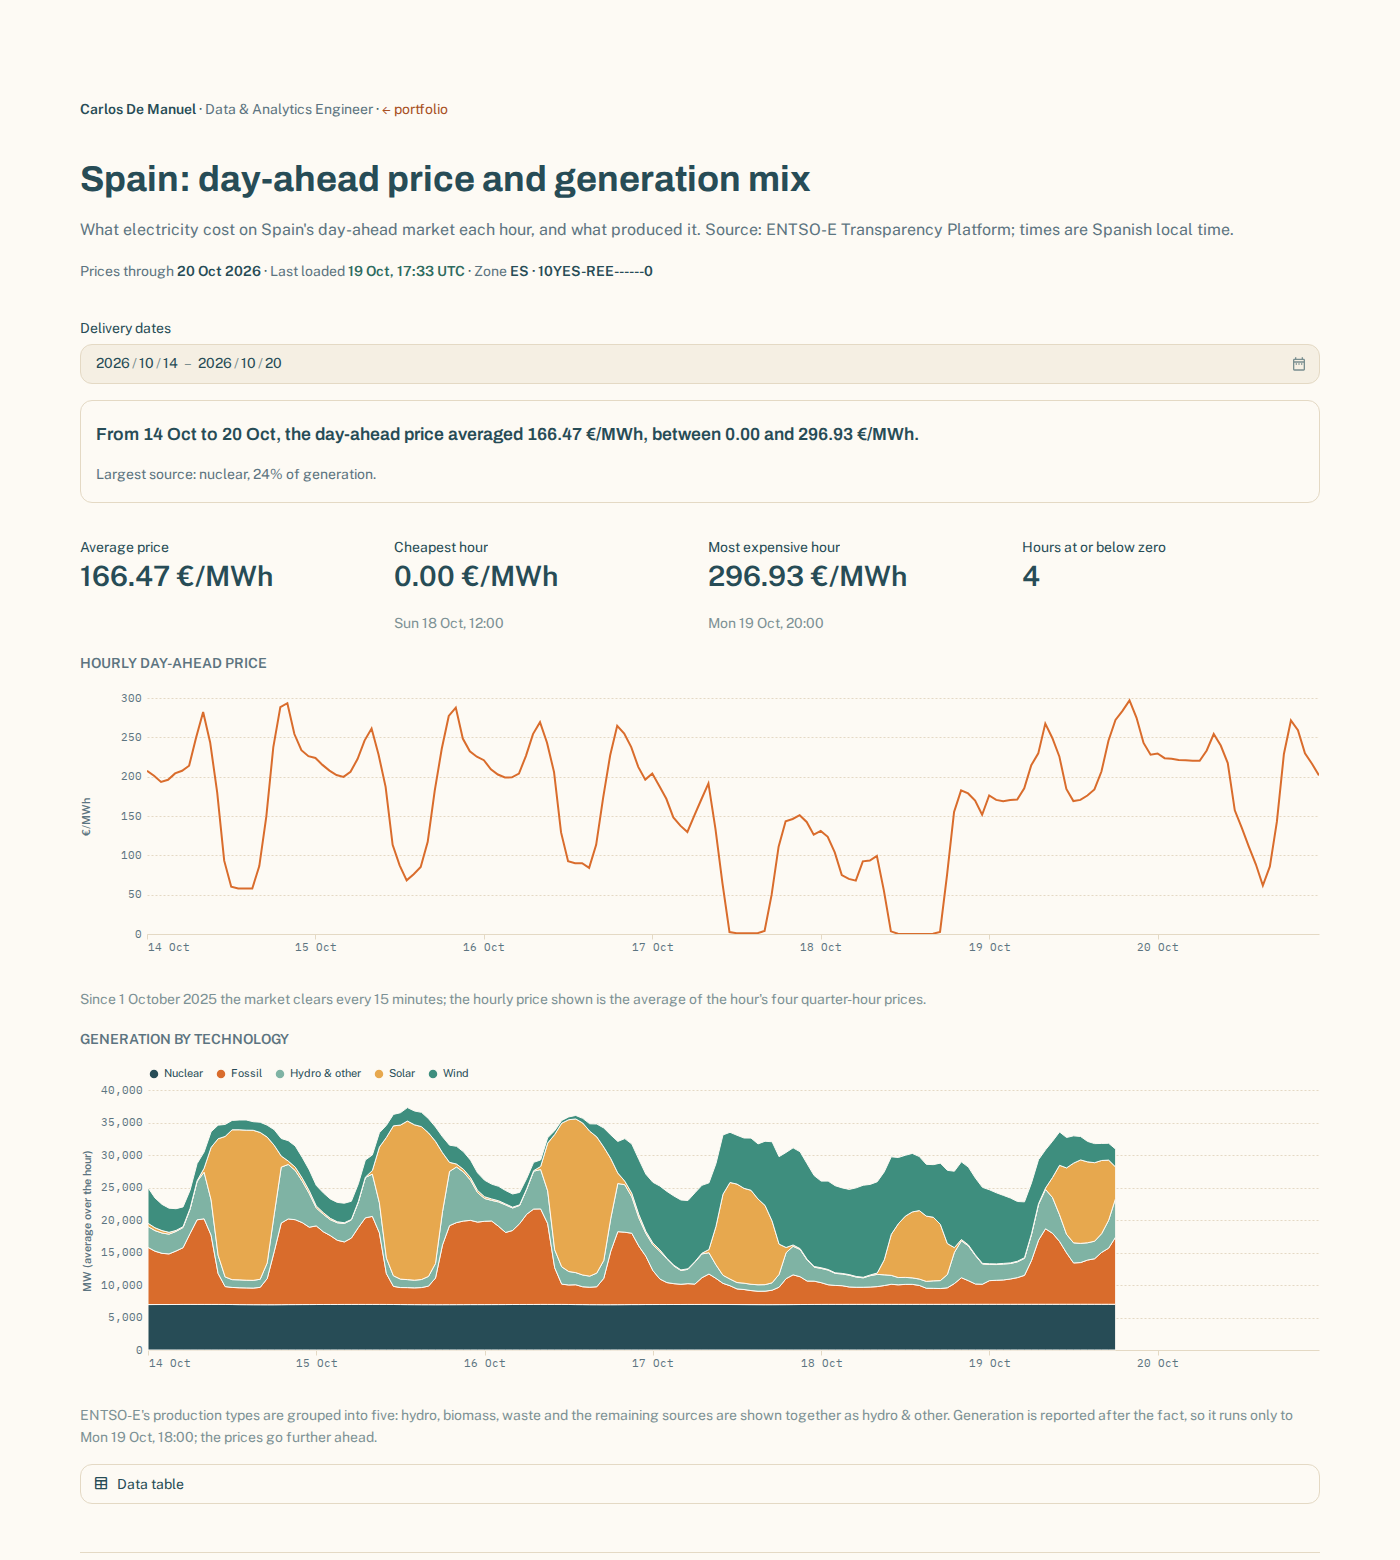
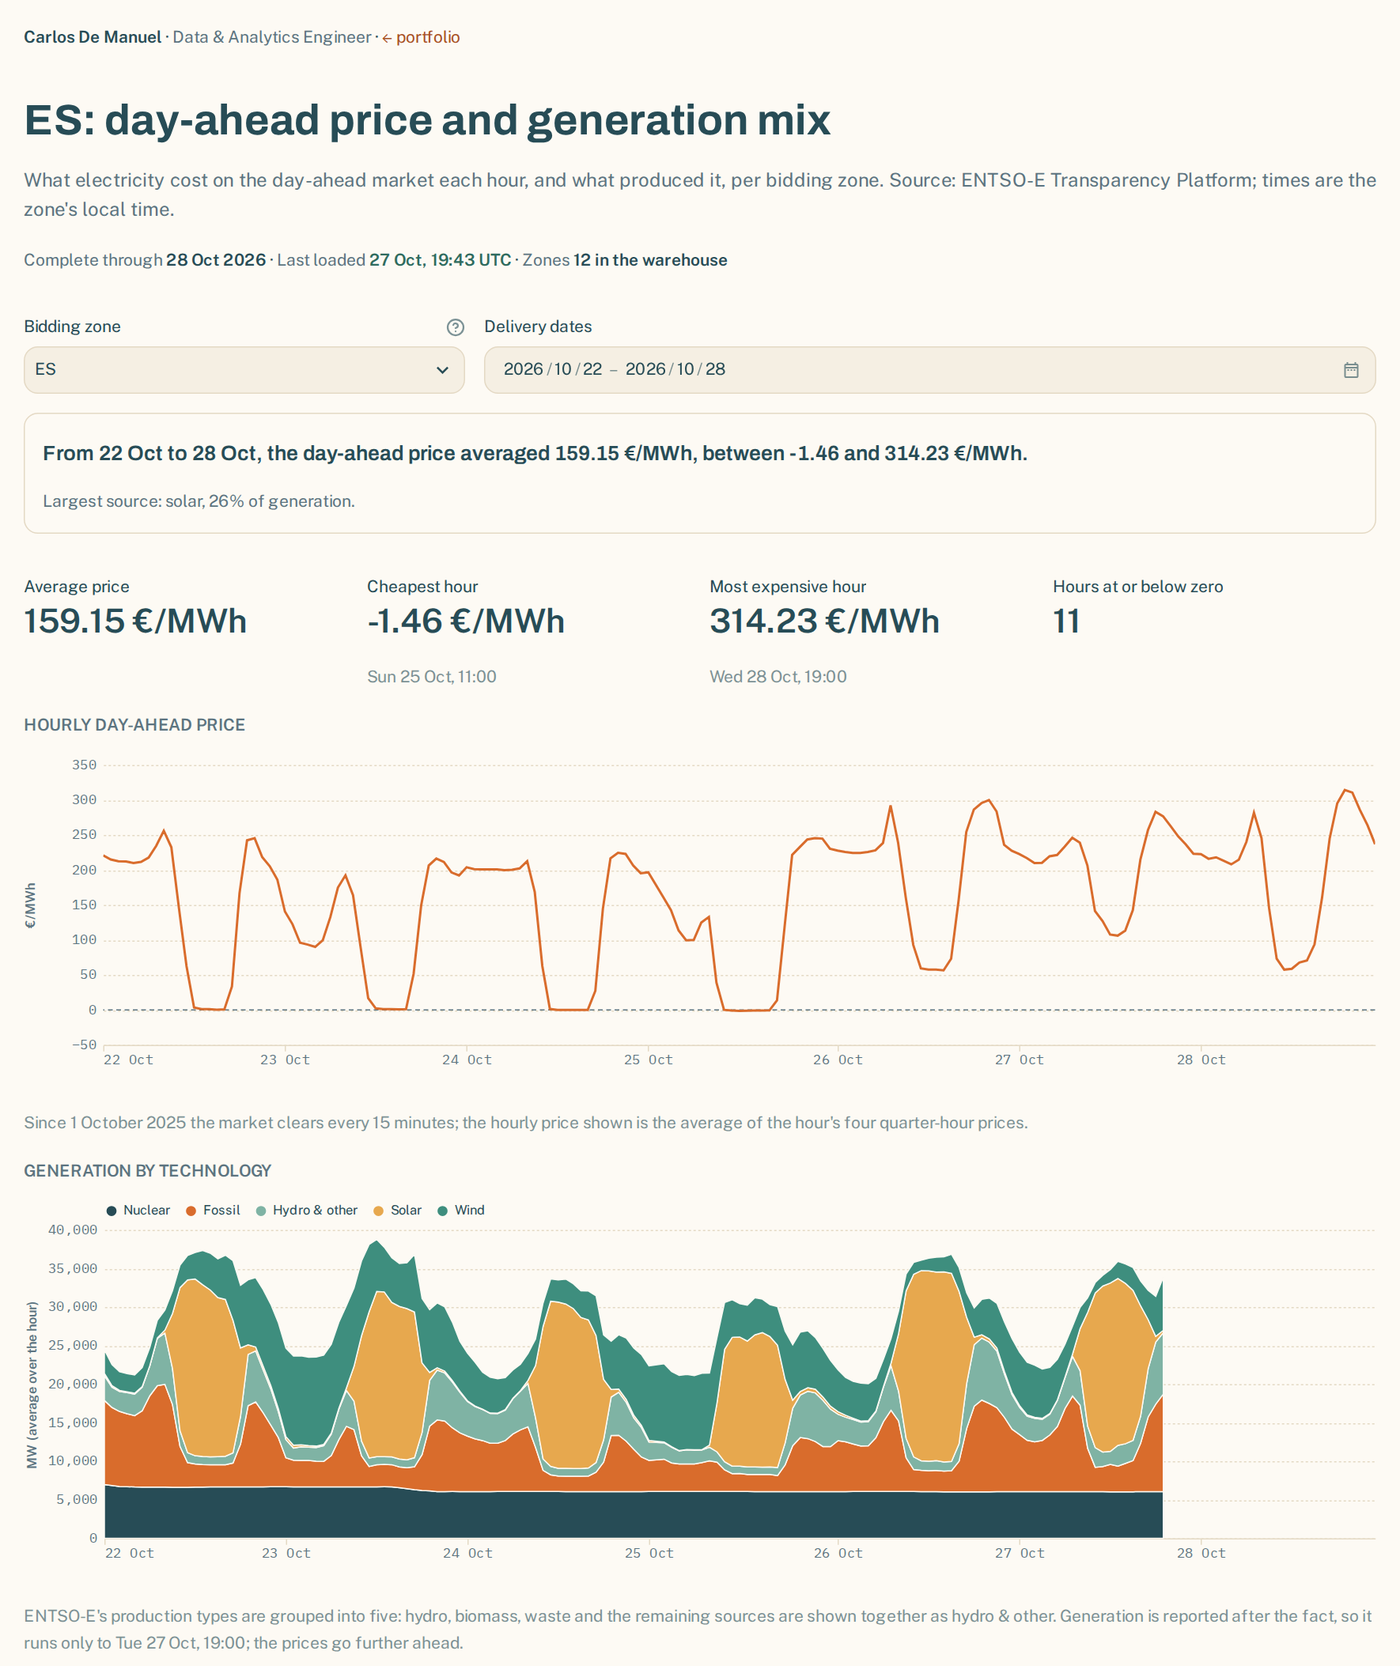
docs(readme): Phase 1 status, twelve zones since 2024, new screenshots

diff --git a/README.md b/README.md
@@ -17,9 +17,11 @@ built to grow into a platform that explains day-ahead prices across European bid
 the generation mix, the drivers of the price, what households actually pay, and a day-ahead
 price forecast for Spain.
 
-> **Phase 0 of a five-phase roadmap.** The foundations, and a Spain-only slice: hourly day-ahead prices and
-> generation by technology, loaded daily from ENTSO-E. The other zones and questions come
-> next ([roadmap](#roadmap)).
+> **Phase 1 of a five-phase roadmap.** Twelve bidding zones (Spain, Portugal, France,
+> Germany–Luxembourg, the Netherlands and Italy's seven zones), with hourly day-ahead prices
+> and generation by technology from January 2024, loaded daily from ENTSO-E. Load, cross-border
+> flows, emission factors and the quarter-hour price mart are in review; forecasting and
+> household prices come later ([roadmap](#roadmap)).
 
 ---
 
@@ -38,7 +40,9 @@ price forecast for Spain.
 The page answers its question in one sentence before any control. The two charts share one
 time axis, so an hour sits at the same position in both. Any of the twelve bidding zones can be
 picked (`?zone=FR` in the URL), and times are the zone's local time. A map page compares one
-day's mean price across all twelve.
+day's mean price across all twelve:
+
+![One day's mean day-ahead price in each of the twelve bidding zones, as a map and a ranking](docs/img/map.png)
 
 ---
 
@@ -50,7 +54,12 @@ day's mean price across all twelve.
   −500 to −600 €/MWh for delivery from 29 May 2026.
 - **An hour is a local hour.** Spanish days have 23, 24 or 25 hours. Keys are UTC, local
   dates and hours are derived explicitly, and the completeness tests know how long each day
-  is.
+  is. On the 25-hour day the charts draw the repeated 02:00 as the mean of its two hours,
+  never their sum; the warehouse keeps both.
+- **Missing data stays missing.** ENTSO-E never published generation for Spain after the
+  Iberian blackout of 28 April 2025, nor for a few French hours. Those days are listed, with
+  their cause, in a seed the completeness test reads; any other gap still fails the pipeline
+  ([ADR-006](docs/adr/0006-known-source-gaps.md)).
 - **Since October 2025 the market clears every 15 minutes.** The hourly price is the mean
   of the hour's quarter-hours, and the page says so. Raw and staging keep the native
   resolution.
@@ -99,13 +108,16 @@ flowchart LR
   quarter-hours; the 23-hour spring day of 2026, with negative prices; and every Spanish
   production type. No test touches the network; `make record-fixtures` re-records them.
 - **Prod has exactly one writer.** The Pipeline workflow refuses to run on any ref but
-  `main`. CI builds every pull request in its own `ci_*` schemas.
+  `main`. CI builds every pull request in its own `ci_*` schemas. The history since
+  January 2024 was backfilled through the same workflow, one quarter per run, so the
+  backfill and the daily load share one code path.
 
 ### Data quality
 
-Each build runs 73 dbt nodes: seeds, models, data tests and unit tests. Among them:
+Each build runs 82 dbt nodes: seeds, models, data tests and unit tests. Among them:
 
-- complete local days per zone, at 23, 24 or 25 hours;
+- complete local days per zone, at 23, 24 or 25 hours, except the source gaps listed in a
+  seed;
 - `unique` and `not_null` on every key, and a check that the SDAC limits seed is contiguous
   and non-overlapping;
 - unit tests for both DST changes, for staging's deduplication, and for picking the finest
@@ -147,20 +159,21 @@ docs/adr/                architecture decision records
 
 | Phase | Scope |
 |---|---|
-| **0 (current)** | Foundations, and a Spain-only slice: day-ahead prices and generation, loaded daily |
-| 1 | All bidding zones, load, cross-border flows, technology mapping and emission factors, a 2–3 year backfill; map and zone-mix pages |
+| 0 (done) | Foundations, and a Spain-only slice: day-ahead prices and generation, loaded daily |
+| **1 (current)** | All bidding zones, load, cross-border flows, technology mapping and emission factors, a 2–3 year backfill; map and zone-mix pages |
 | 2 | MetricFlow metrics (renewable share, carbon intensity, average price, spread); household price composition from Eurostat and the Spanish PVPC from ESIOS |
 | 3 | Day-ahead price forecast for Spain: leakage-safe features, rolling-origin backtests against a naive baseline, prediction intervals, SHAP drivers |
 | 4 | Slim CI with deferral to the prod manifest, dbt docs on GitHub Pages, a case study |
 
 ## Limitations
 
-- Phase 0 covers one zone and two datasets. The project's harder questions are not
-  answered yet.
+- Prices and generation are live for twelve zones. Load and cross-border flows are loaded
+  into raw daily, but their marts, the emission factors and their pages are still in review. Forecasting and
+  household prices are not answered yet.
 - Generation is ENTSO-E's actual generation per type, as reported by the TSO. It can arrive
   late and be revised, which is why every run re-pulls a week.
 - The page's five generation groups are a display choice. A modelled technology mapping
-  replaces them in Phase 1.
+  in dbt, in review, replaces them.
 
 ## License
 
